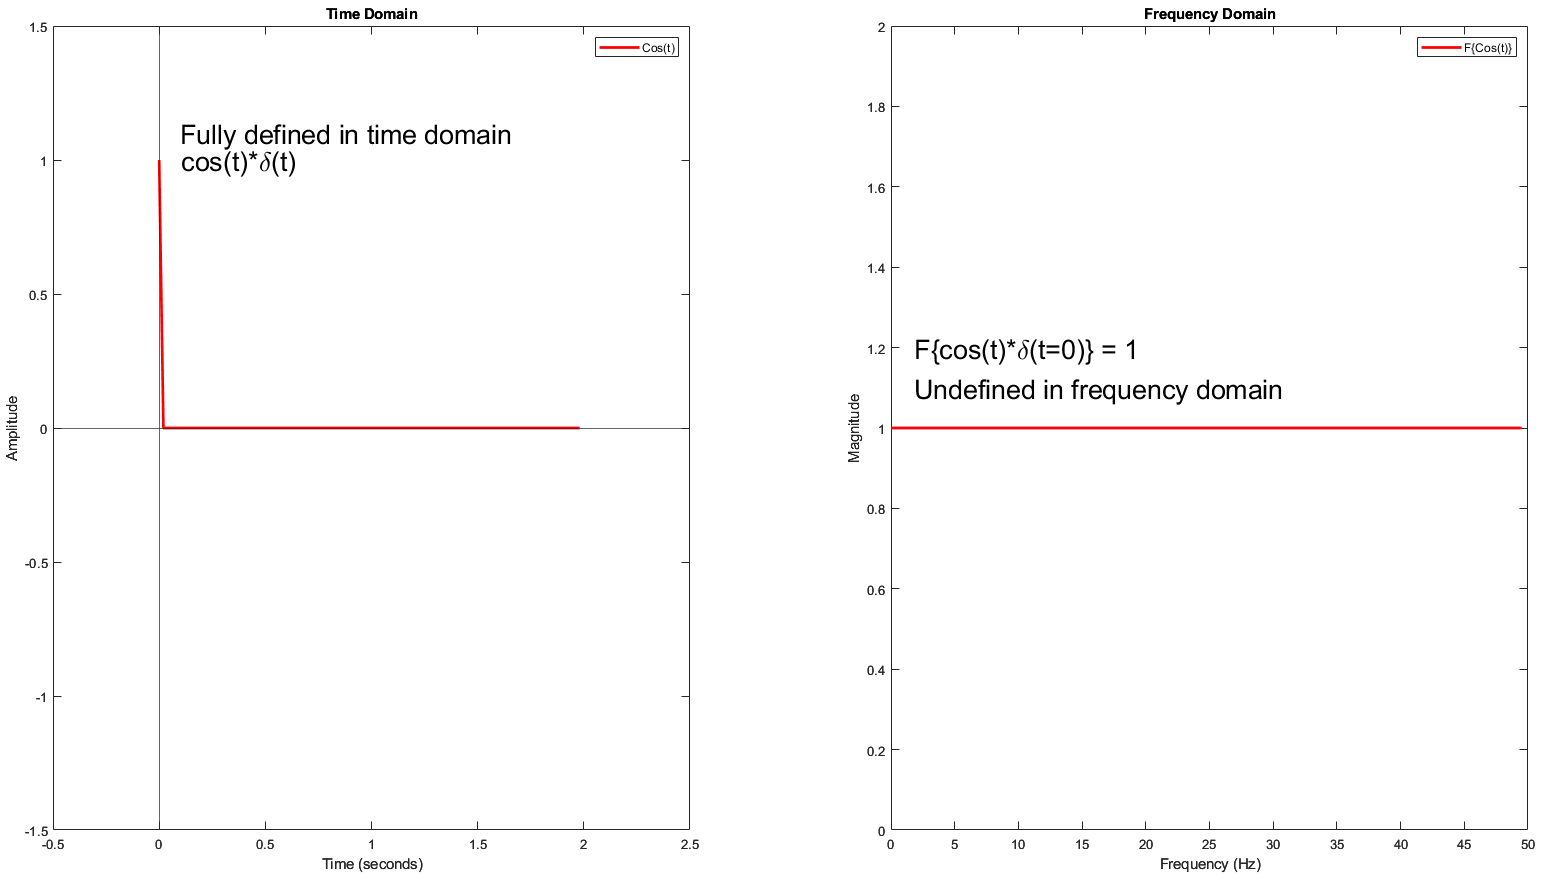
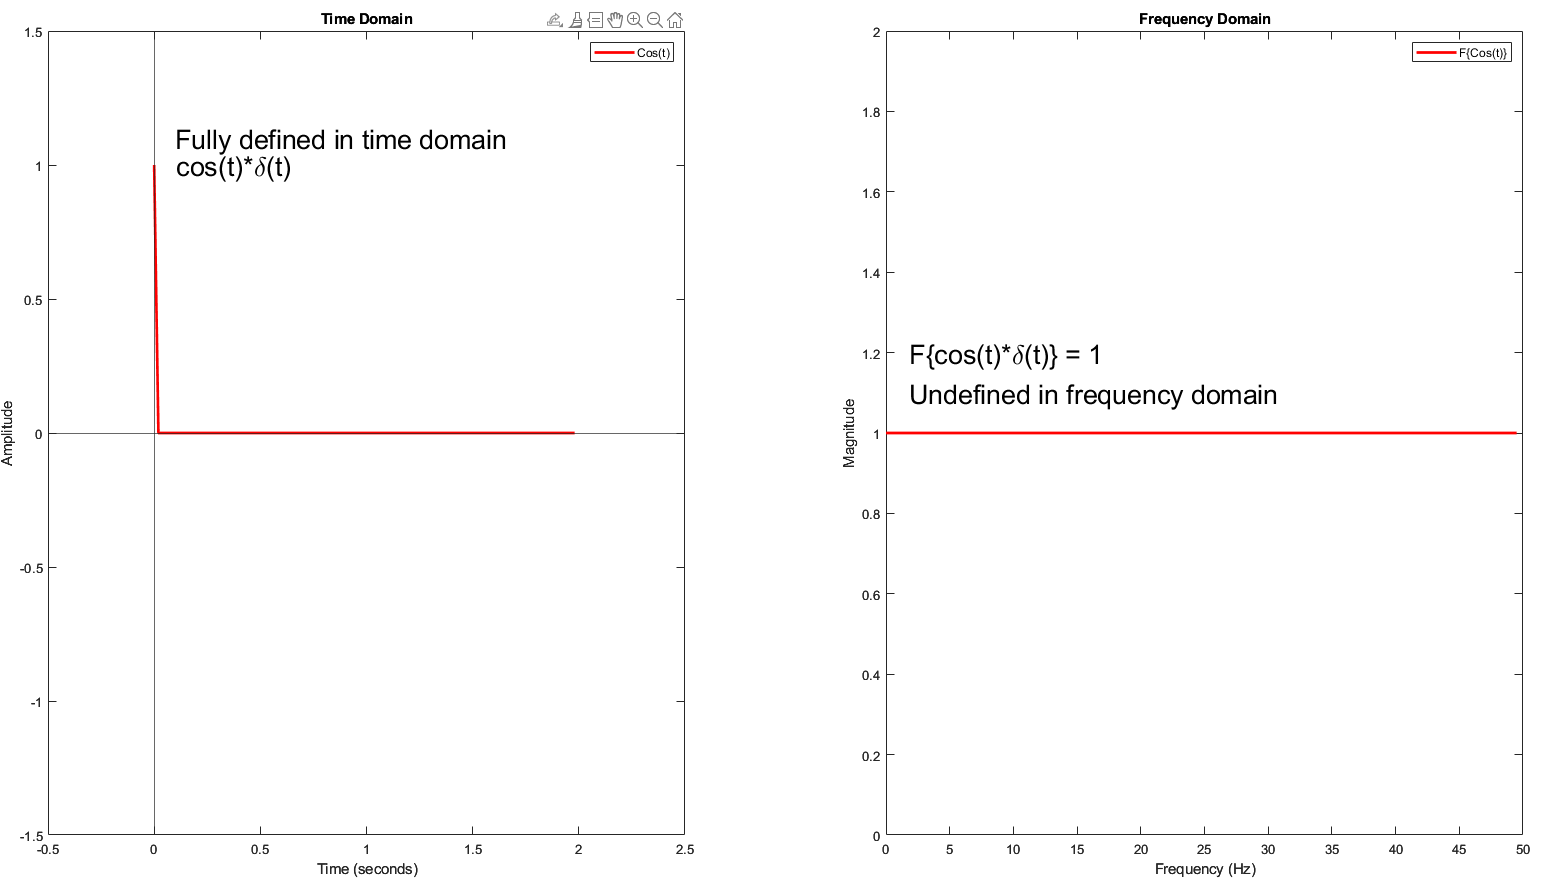
Update

diff --git a/HeisenbergUncertaintyPrinciple/main.m b/HeisenbergUncertaintyPrinciple/main.m
@@ -36,7 +36,7 @@ for i=1:NoD
         text(0,1,sprintf('   cos(t)*\\delta(t) ','Interpreter', 'latex'),'FontSize',20)
         text(0.1,1.1,"Fully defined in time domain",'FontSize',20)
         subplot(122)
-        text(.1,1.2,sprintf('   F\\{cos(t)*\\delta(t=0)\\} = 1','Interpreter', 'latex'),'FontSize',20)
+        text(.1,1.2,sprintf('   F\\{cos(t)*\\delta(t)\\} = 1','Interpreter', 'latex'),'FontSize',20)
         text(0.1,1.1,"   Undefined in frequency domain",'FontSize',20)
         pause(2)
     end
